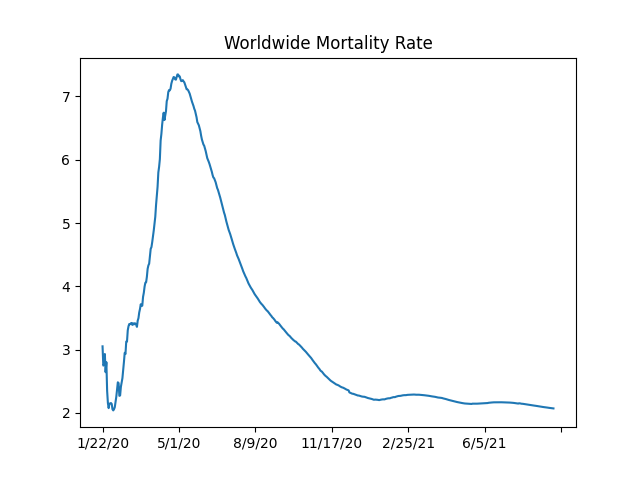
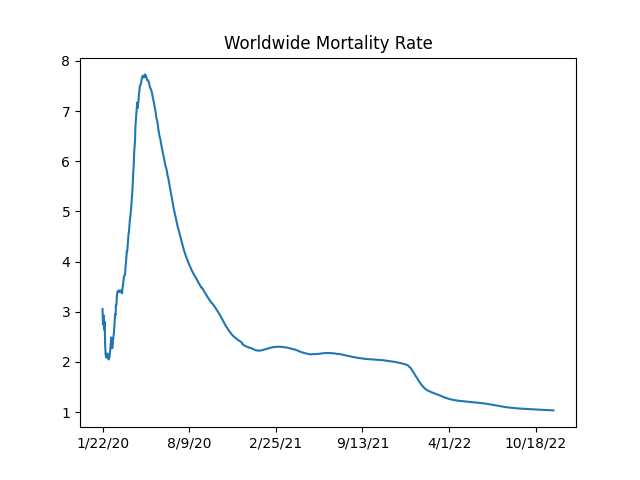
--

diff --git a/en/2020/02/corona.md b/en/2020/02/corona.md
@@ -24,10 +24,10 @@ plt.savefig('mort.png')
 ```
 
 ```text
-8/31/21    2.075917
-9/1/21     2.074744
-9/2/21     2.073132
-9/3/21     2.071545
+11/25/22    1.034779
+11/26/22    1.034415
+11/27/22    1.034074
+11/28/22    1.033569
 Name: deaths / 100 confirmed, dtype: float64
 ```
 
@@ -89,15 +89,40 @@ plt.savefig('US-deaths.png')
 
 ```text
 Date
-2022-01-31    2460.571429
-2022-02-01    2544.428571
-2022-02-02    2469.857143
-2022-02-03    2449.000000
-2022-02-04    2487.000000
+2022-11-24    357.571429
+2022-11-25    302.428571
+2022-11-26    301.000000
+2022-11-27    301.000000
+2022-11-28    313.285714
 Name: New deaths, dtype: float64
 ```
 
 ![](US-deaths.png)
+
+<a name='frdailydeath'/>
+
+FR Daily Deaths, 7-Day Moving Average
+
+```python
+import util, pandas as pd
+df = util.get_data_combined()
+df1 = df[(df['Country/Region']=='France')&(df.index > '2020-01-01')]
+df1['New deaths'] = df1['New deaths'].rolling(7).mean()
+print (df1['New deaths'].tail(5))
+df1['New deaths'].plot()
+```
+
+```text
+Date
+2022-11-24    68.857143
+2022-11-25    68.000000
+2022-11-26    68.000000
+2022-11-27    68.000000
+2022-11-28    61.857143
+Name: New deaths, dtype: float64
+Out[1]: <AxesSubplot:xlabel='Date'>
+```
+
 
 <a name='Rt'/>
 
@@ -124,11 +149,11 @@ plt.savefig('Rt-US.png')
 ```
 
 ```text
-354    1.291096
-355    1.379105
-356    1.278807
-357    1.273641
-358    1.310040
+691    0.971349
+692    0.856543
+693    0.851197
+694    0.868735
+695    0.946327
 Name: 1, dtype: float64
 ```
 

diff --git a/en/tweets/2022/week48.md b/en/tweets/2022/week48.md
@@ -21,7 +21,7 @@ all institutions"
 
 MD report, with code ref
 
-[[-]](2022/10/mastadon.html)
+[[-]](2022/10/mastodon.html)
 
 ---
 
